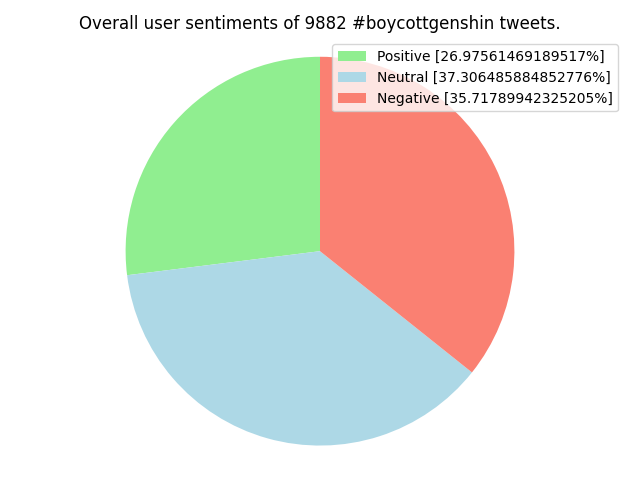
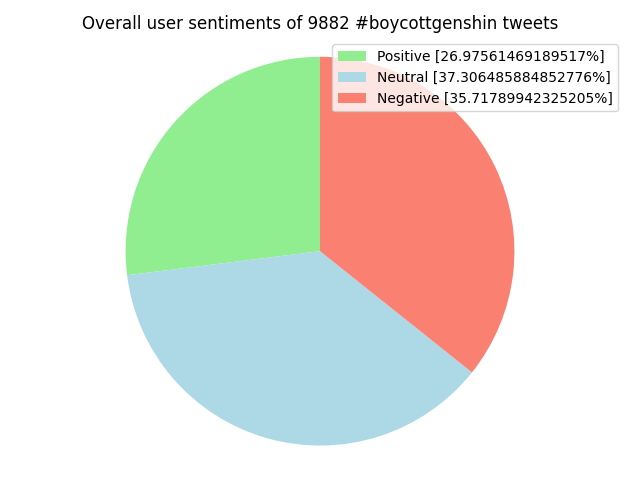
fixed typo

Changed region(s): [[0.125, 0.0312, 0.875, 0.0625]]

diff --git a/analyzer.py b/analyzer.py
@@ -35,7 +35,7 @@ class SentimentAnalysis: # Class to perform sentiment analysis on the tweets
 
         # printing out data
         print("\n\nOutput:     ")
-        print(f"Overall user sentiments of {str(df.shape[0] - 1)} #boycottgenshin tweets.")
+        print(f"Overall user sentiments of {str(df.shape[0] - 1)} #boycottgenshin tweets")
         print()
         print("General Report: ")
 
@@ -69,7 +69,7 @@ class SentimentAnalysis: # Class to perform sentiment analysis on the tweets
         colors = ["lightgreen", "lightblue", "salmon"] # green, blue, red
         patches, texts = plt.pie(sizes, colors=colors, startangle=90) # startangle = 90 means that the pie chart will be divided into three parts
         plt.legend(patches, labels, loc="best") # add legend to the plot
-        plt.title(f"Overall user sentiments of {str(noOfSearchTerms)} {searchTerm} tweets.") # title of the pie chart
+        plt.title(f"Overall user sentiments of {str(noOfSearchTerms)} {searchTerm} tweets") # title of the pie chart
         plt.axis("equal") # Equal aspect ratio ensures that pie is drawn as a circle.
         plt.tight_layout() # to make the pie chart look perfect
         plt.show() # show the pie chart 
